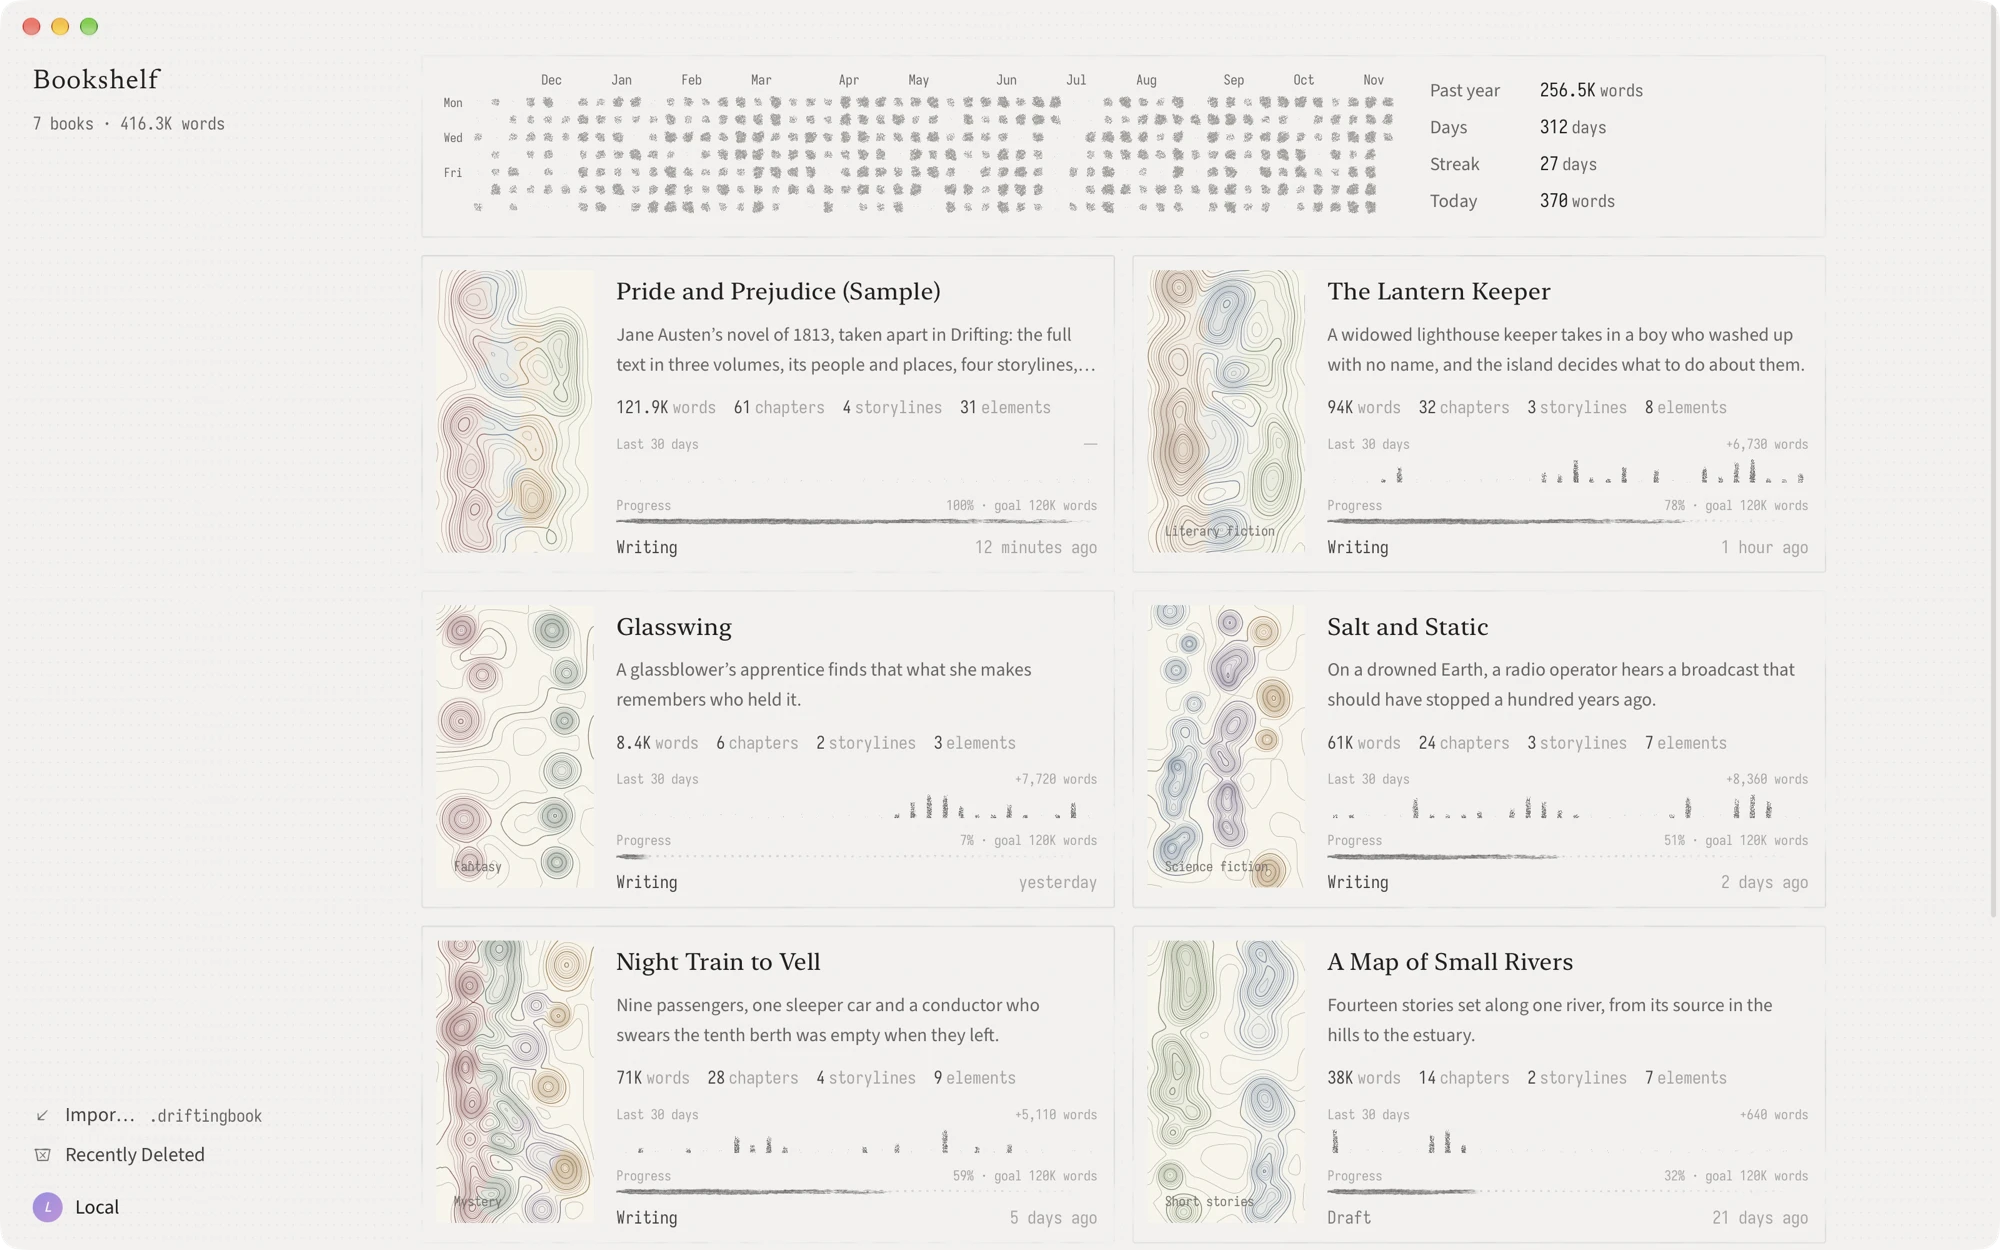
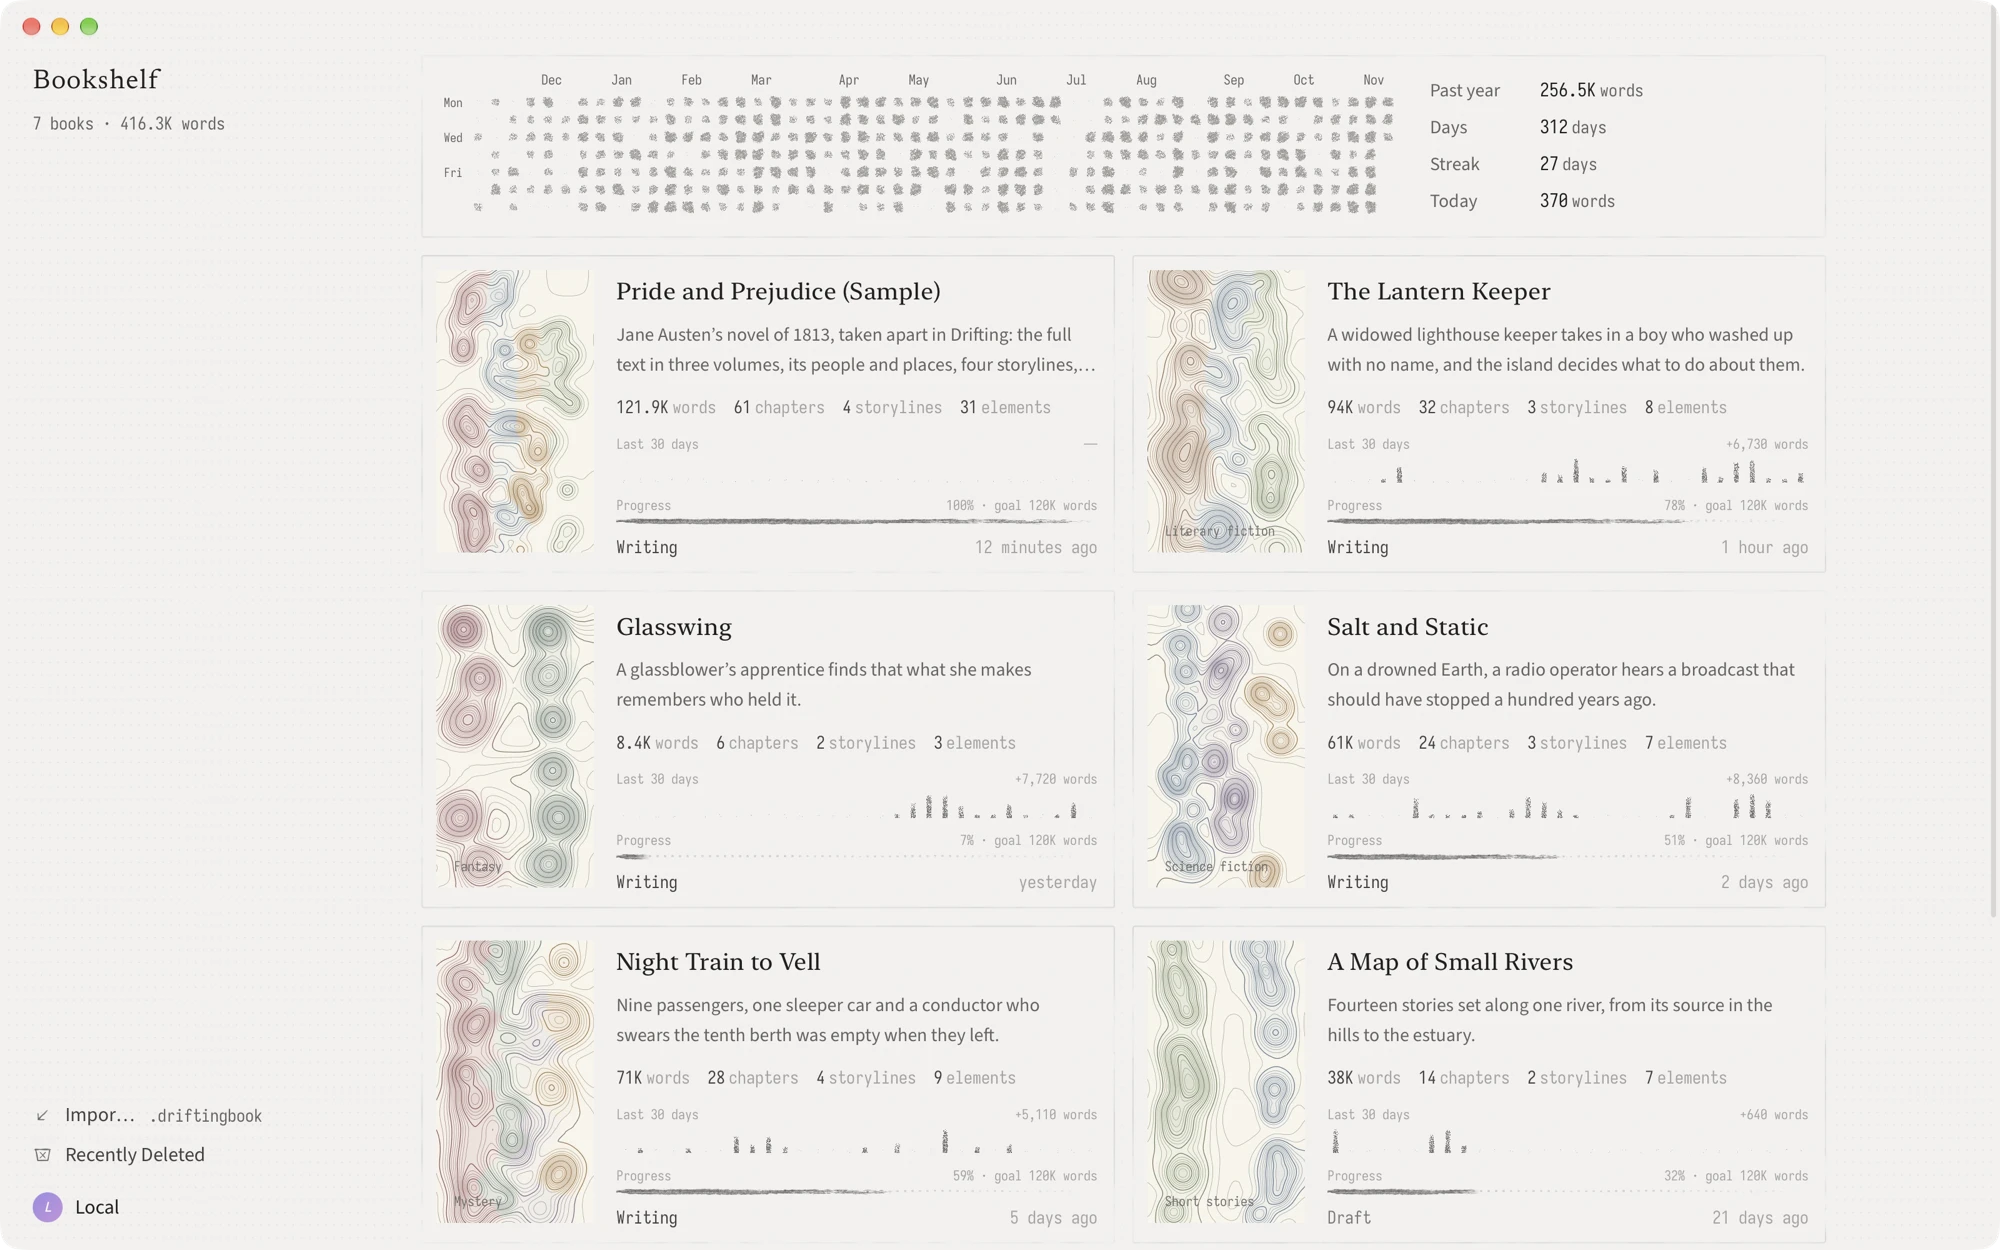
release: 0.1.0-alpha.7

diff --git a/docs/releases/0.1.0-alpha.7.md b/docs/releases/0.1.0-alpha.7.md
@@ -1,0 +1,15 @@
+# Drifting 0.1.0-alpha.7
+
+- Immersive writing: the stick of incense at the end of the paper's toolbar (or ⌘⇧↩) leaves only the paper. The paragraph you are writing stays in full ink, the rest fades, and Esc brings everything back as it was.
+- Seven more interface languages: Deutsch, Español, Français, 日本語, 한국어, Português (Brasil) and 繁體中文. Pick one on first launch or in the account menu.
+- Sign in with Google, and sign in from the account menu inside a book.
+- The bookshelf has a left column with Import and Recently Deleted, a year of your writing days, and each book's last 30 days. Writing days follow your account.
+- A new first launch, a short tour the first time you open a book, and empty views that say how to start.
+- The element overview opens in a Relations layout. TODO & Materials shows comments beside the TODOs.
+- Comments: the sticky-note rail is gone. The paper's comment button shows or hides the comment marks, new comments are written beside the selection, and pointing at a comment's mark lights its card.
+- Larger interface text sizes, and every row of the account menu is one height.
+- Images synced from another device now show their previews.
+
+If you use Drifting on more than one Mac, update all of them: an older version pauses syncing a book once a newer one has written to it, and resumes after it is updated.
+
+This is an early release. Keep independent copies of important manuscripts.

diff --git a/docs/editor/immersive-writing.md b/docs/editor/immersive-writing.md
@@ -19,8 +19,9 @@ modes (句, 渐隐) were not adopted.
   `visibility: hidden`，点不到也聚焦不到。稿纸左下角的同步云在沉浸中不呼吸，
   只有同步出了问题时照常显示。macOS 的红绿灯从原生侧隐藏
   （`window_set_traffic_lights_hidden`）。
-- **留着什么**。批注 rail（页边批注与正文里的批注砂笔）和大纲 rail
-  按进入前的样子保留：开着就开着，关着就关着；沉浸写作不读也不改它们的开关。
+- **留着什么**。正文里的批注砂笔（稿纸批注按钮的开关；页边便笺 rail 已在
+  2026-11-04 退役）和大纲 rail 按进入前的样子保留：开着就开着，关着就关着；
+  沉浸写作不读也不改它们的开关。
   要素下划线与悬停卡照常。
 - **回到原样**。沉浸是一个不存盘的界面状态（`immersiveWriting`）。侧栏与
   Bottom Panel 自己的开合状态在下面原样保留，界面读的是「开着且不在沉浸中」
